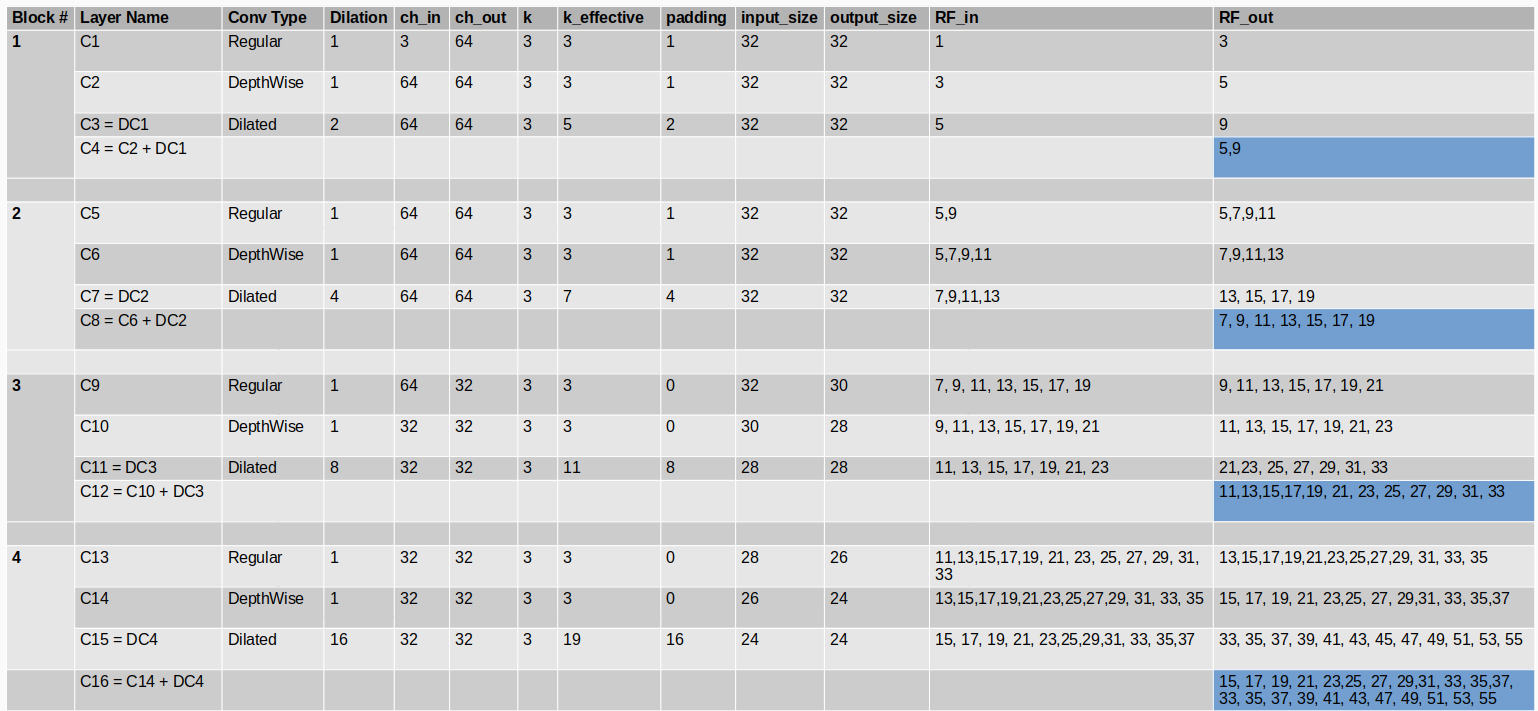
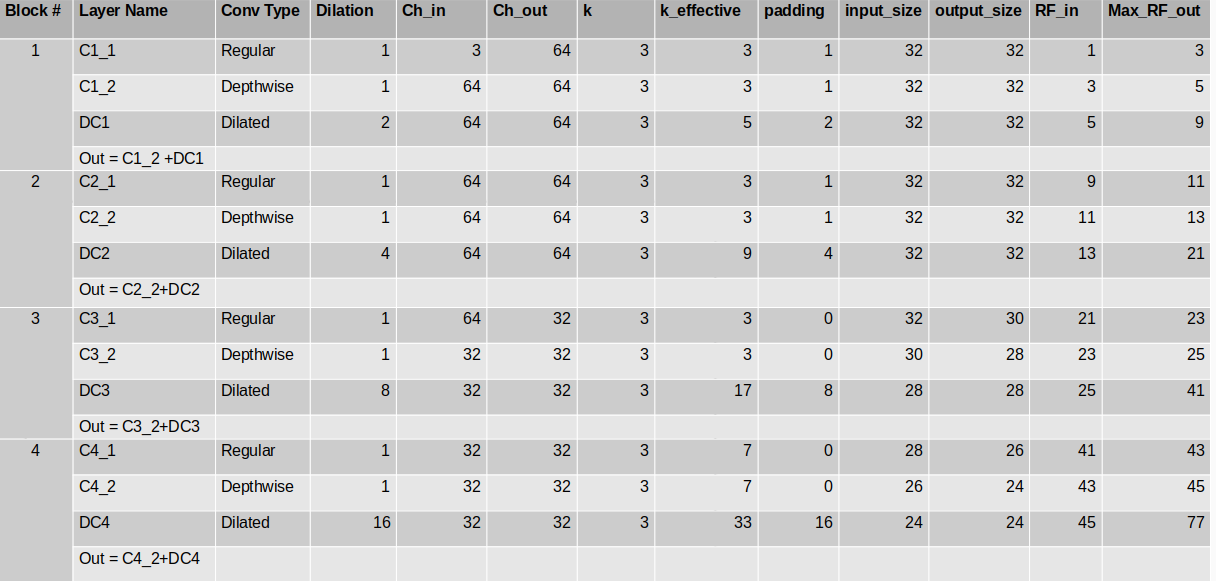
update readme

diff --git a/session_9/README.md b/session_9/README.md
@@ -38,7 +38,7 @@ The below image demonstrates how the image transforms look on a sample image
 Our model contains four convolution blocks, each of which has three convolution layers. The output from the fourth block is passed through an adaptive average pooling layer, followed by a 1x1 convolution to reduce the number of output channels to 10. Finally log softmax function is used to calculate the class probabilities.
 
 ```B1-> B2 -> B3 -> B4 -> AAP -> C5 -> O```  is the model structure 
-where ```B``` represents a convolution block of three layers, ```C``` represents a 1 x 1 convolution block, ```AAP``` represents an Adaptive Average Pooling block, and ```O``` indicates the log softmax output. The model contains a total of 171840 parameters. The model achieved a max. receptive field of 55 for the cifar-10 input data of size 3 x 32 x 32. 
+where ```B``` represents a convolution block of three layers, ```C``` represents a 1 x 1 convolution block, ```AAP``` represents an Adaptive Average Pooling block, and ```O``` indicates the log softmax output. The model contains a total of 171840 parameters. The model achieved a max. receptive field of 77 for the cifar-10 input data of size 3 x 32 x 32. 
 
 Each block ```B``` contains the following layers:
 
